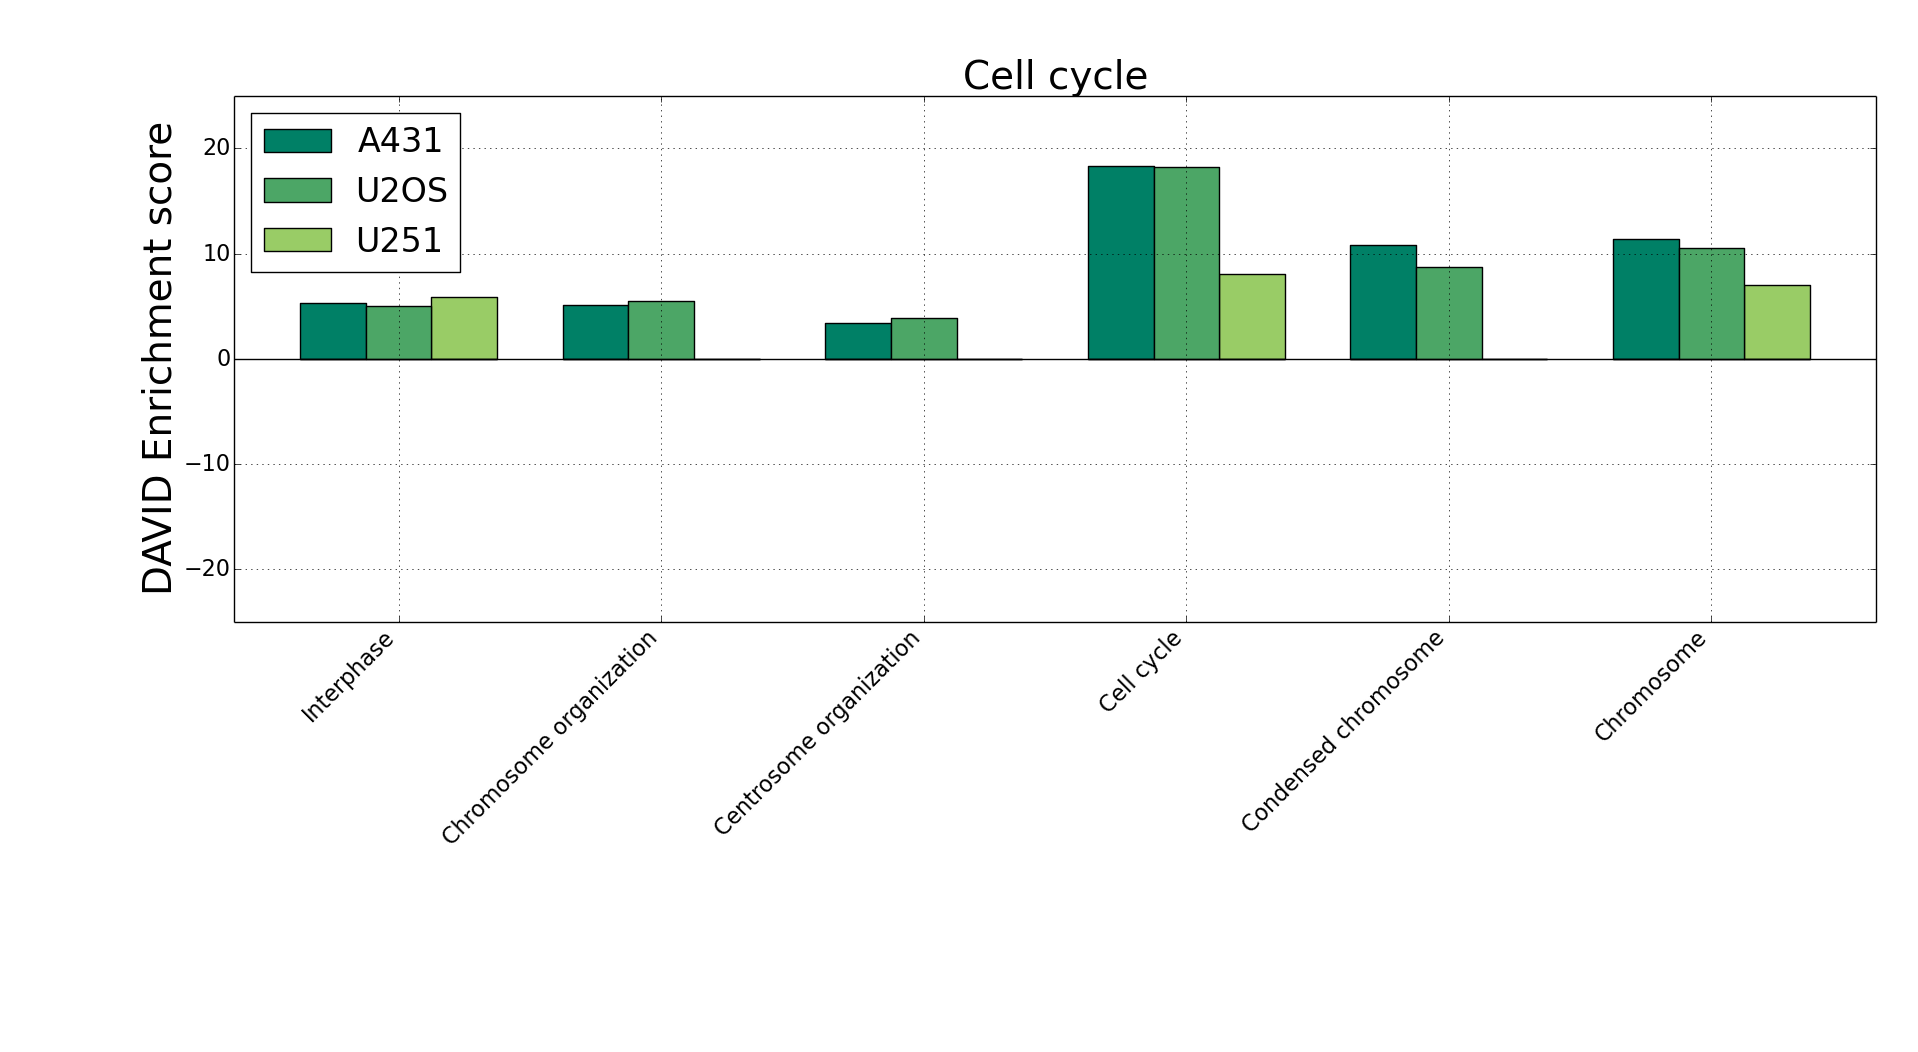
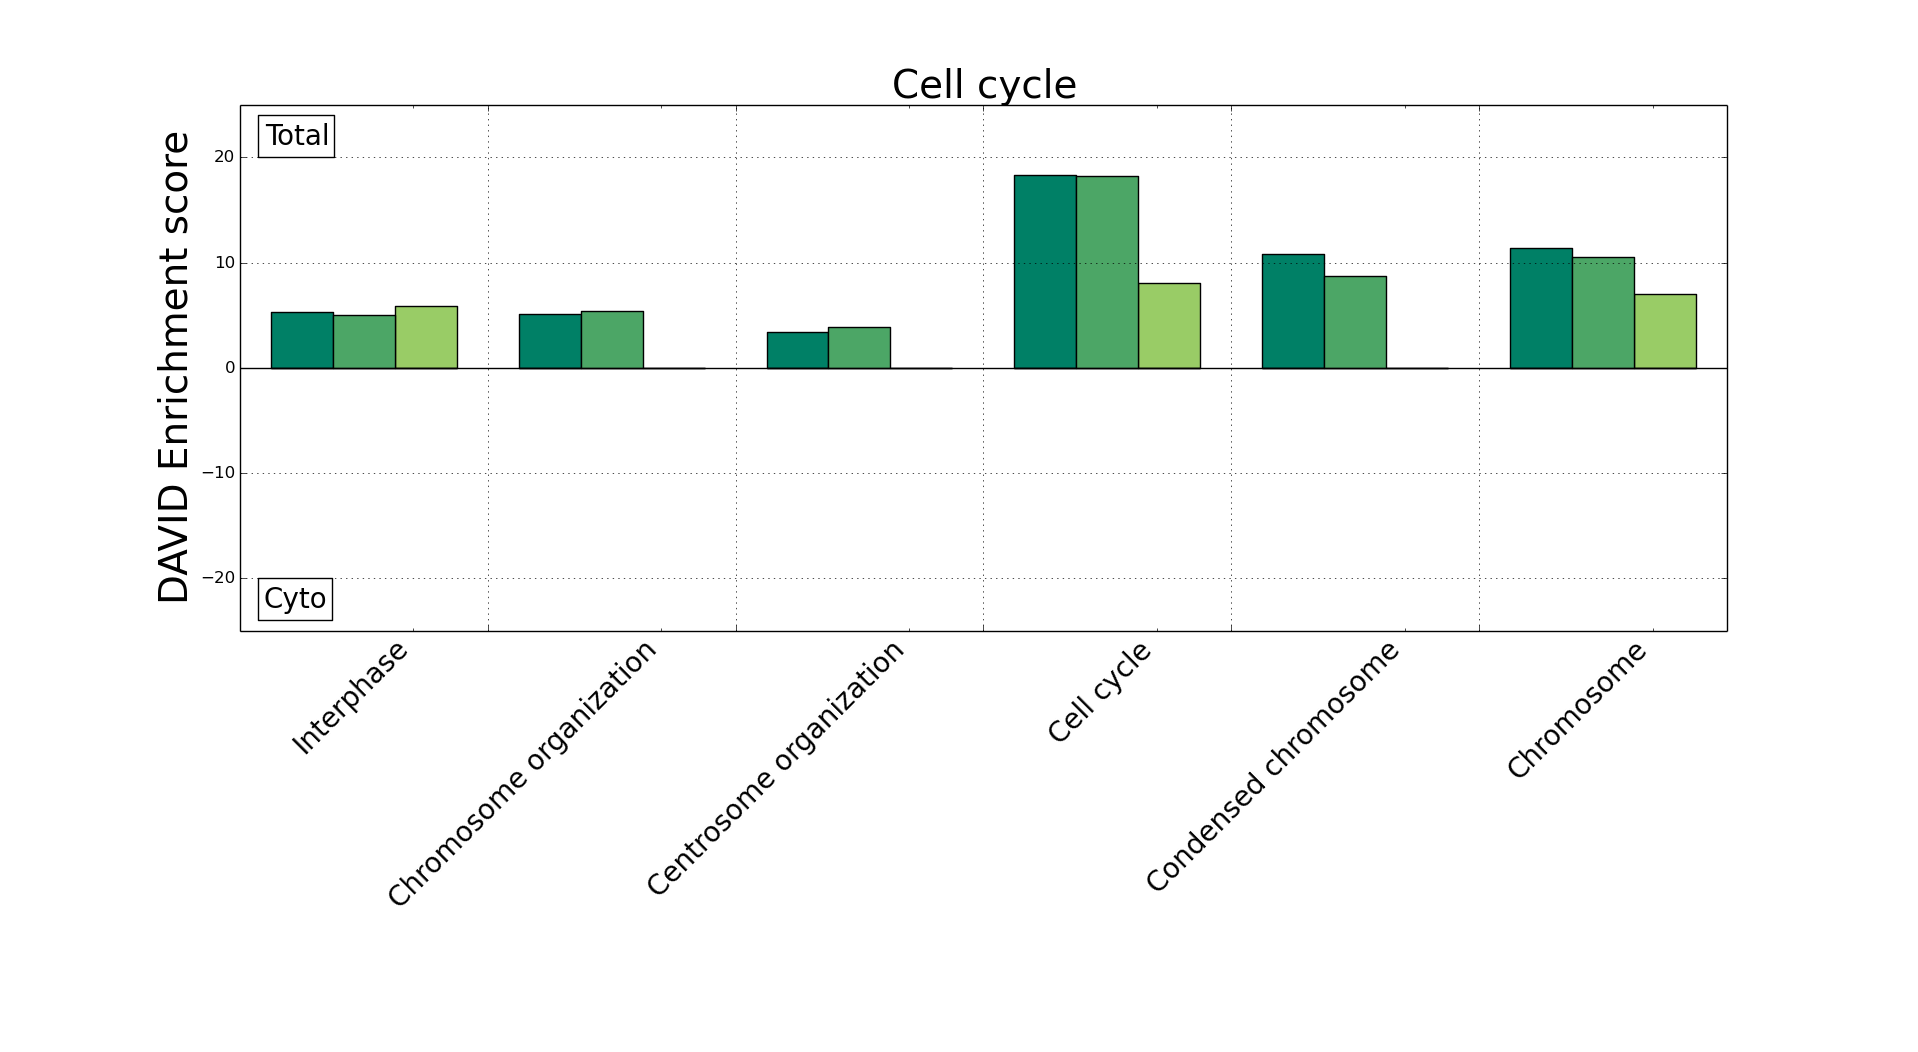
Redid term bar plots

diff --git a/bin/david_term_analysis.py b/bin/david_term_analysis.py
@@ -4,6 +4,7 @@ import os
 import csv
 import matplotlib.pyplot as plt
 import numpy as np
+import matplotlib.ticker as ticker
 
 inputFolder = "../results/150318_DAVID_chromosome_stats/"
 cellLines = ["A431","U2OS","U251"]
@@ -37,18 +38,34 @@ for mainCat in esVector:
       mult = 1
     else:
       mult = -1
-    plt.bar(ind+(i%3)*width, [mult*esVector[mainCat][subCat][i] for subCat in esVector[mainCat]], width, color = colors[i % 3])
+    plt.bar(ind + width/2 + (i%3)*width, [mult*esVector[mainCat][subCat][i] for subCat in esVector[mainCat]], width, color = colors[i % 3])
 
   plt.ylabel('DAVID Enrichment score', fontsize = 28)
-  plt.xticks(ind+1.5*width, fontsize = 20)
-  plt.tick_params(axis='both', which='major', labelsize=16)
-  ax.set_xticklabels(subCats, rotation=45, ha = "right")
+  # Hide major tick labels
+  ax.xaxis.set_major_locator(ticker.FixedLocator(ind))
+  ax.xaxis.set_major_formatter(ticker.NullFormatter())
+
+  # Customize minor tick labels
+  ax.xaxis.set_minor_locator(ticker.FixedLocator(ind + 0.7))
+  ax.xaxis.set_minor_formatter(ticker.FixedFormatter(subCats))
+  
+  ax.text(0.1, 22, "Total", fontsize = 20, va = "center", bbox={'facecolor':'white', 'pad':10})
+  ax.text(0.1, -22, "Cyto", fontsize = 20, va = "center", bbox={'facecolor':'white', 'pad':10})
+  for tick in ax.xaxis.get_minor_ticks():
+    tick.label.set_fontsize(20)
+    tick.label.set_rotation(45)
+    tick.label.set_ha("right")
+  #plt.xticks(ind+1.5*width, fontsize = 20)
+  #plt.tick_params(axis='both', which='major', labelsize=16)
+  #ax.set_xticklabels(subCats, rotation=30, ha = "right")
   plt.title(mainCat, fontsize = 28)
-  plt.legend(cellLines, loc='best', fontsize = 24)
-  plt.tight_layout()
+  if mainCat == "Proteins":
+    plt.legend(cellLines, loc='lower right', fontsize = 24)
+  #plt.tight_layout()
   plt.grid()
-  plt.plot([-1*width, len(subCats)],[0, 0], color = 'k')
-  plt.xlim([-1*width, len(subCats)])
+  plt.plot([0, len(subCats)],[0, 0], color = 'k')
+  plt.xlim([0, len(subCats)])
   plt.ylim([-25, 25])
+  fig.subplots_adjust(bottom=0.4)
   
 plt.show()

diff --git a/bin/david_chromosome_analysis.py b/bin/david_chromosome_analysis.py
@@ -43,6 +43,8 @@ for idx, highIn in enumerate(["total", "cyto"]):
       count = float(row[3])/100
       bg = count/float(row[9])
       bgCounts[getChromKey(cat)-1].append(bg)
+      if float(row[-2]) < 0.01:
+        print highIn, cellLine, cat, row[-2]
       if cat not in cats:
         cats.append(cat)
         catCounts.append([0,0,0])
